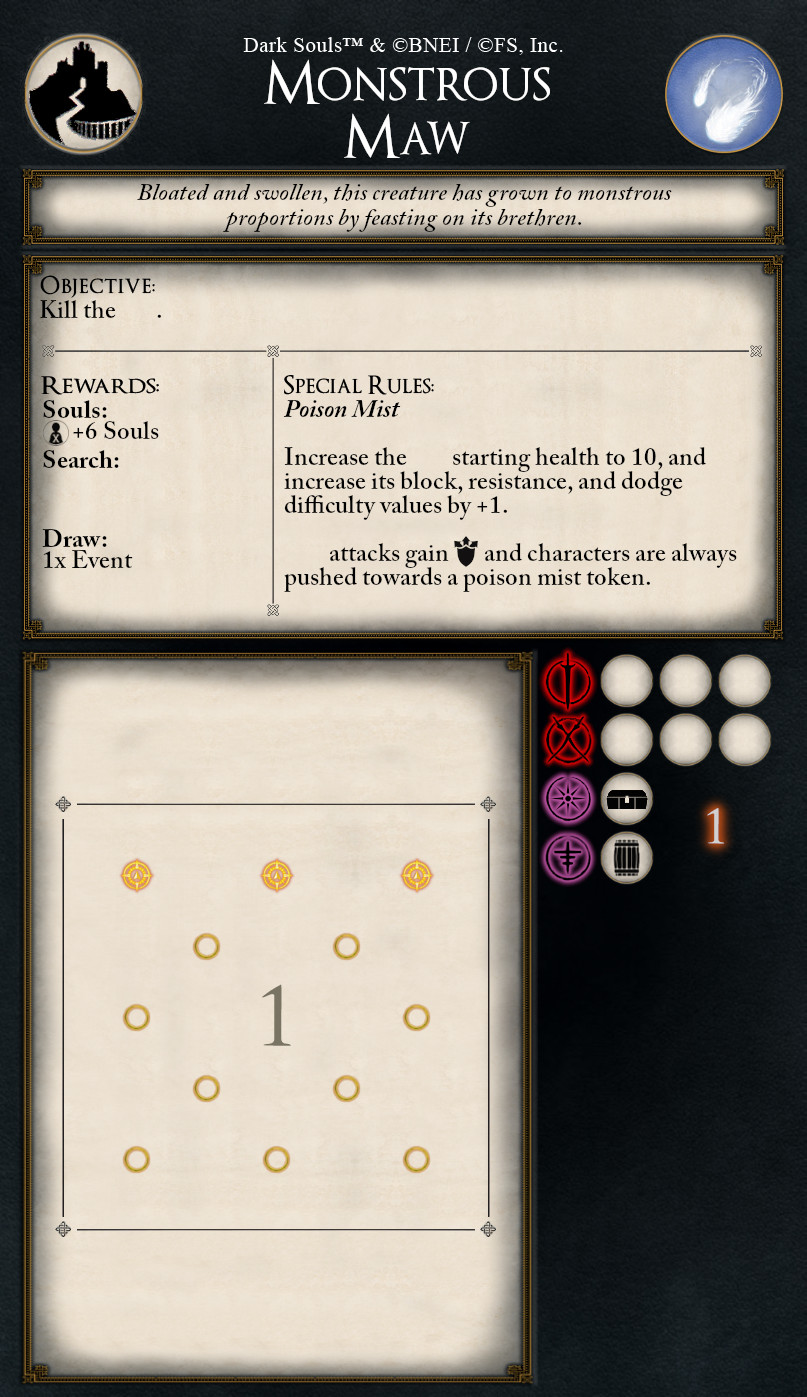
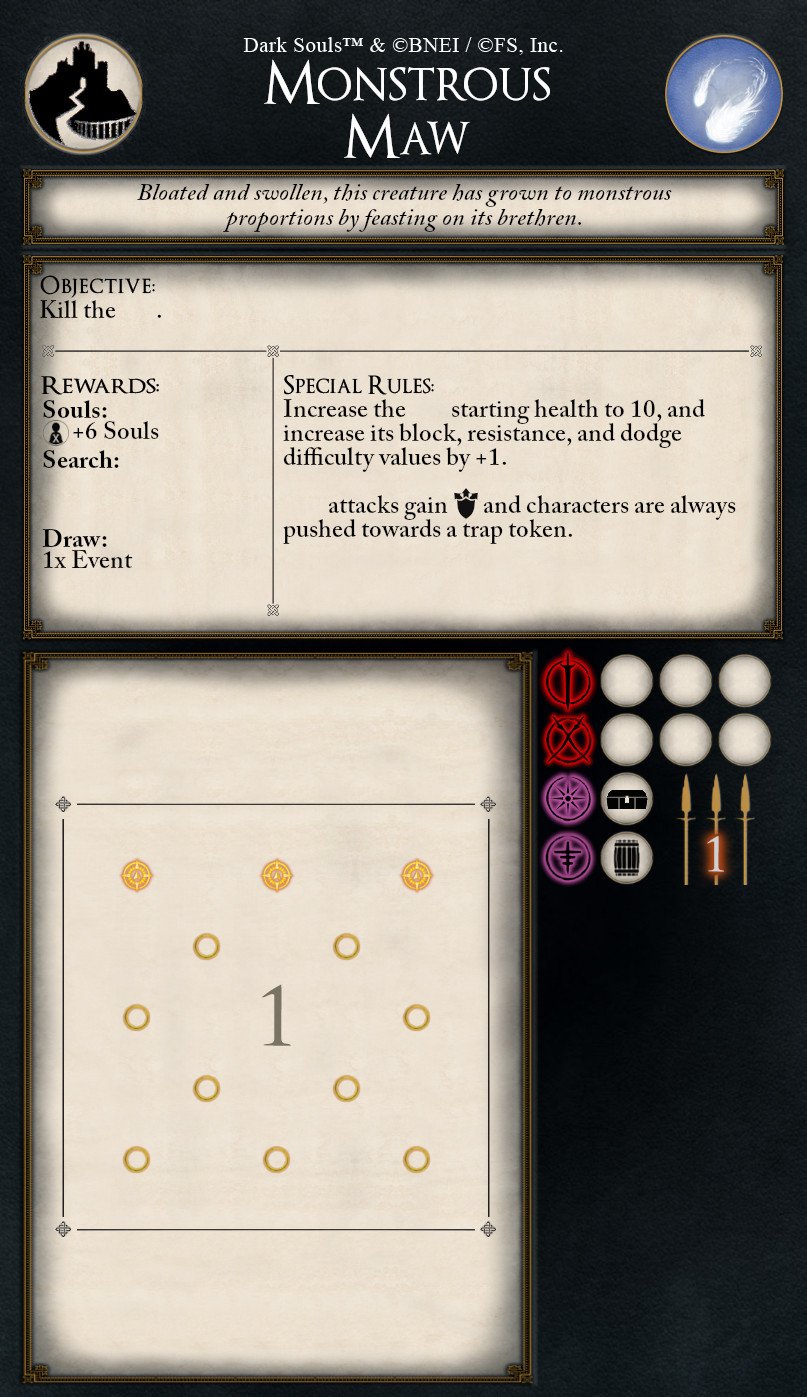
More edited encounter work.

Changed region(s): [[0.3408, 0.277, 0.8984, 0.4309], [0.8364, 0.554, 0.9294, 0.6464]]

diff --git a/ui/encounter_mode/logic.py b/ui/encounter_mode/logic.py
@@ -42,7 +42,58 @@ INVADER_LIMIT_SETTING_KEYS = (
 ENCOUNTER_BEHAVIOR_MODIFIERS_EDITED = {
     "Painted World of Ariamis_1_No Safe Haven": [],
     "Painted World of Ariamis_1_The First Bastion": [],
-    "Painted World of Ariamis_2_Monstrous Maw": [],
+    "Painted World of Ariamis_2_Monstrous Maw": [
+        {
+            "id": "pw_monstrous_maw_health",
+            "source": "encounter",
+            "source_id": "Painted World of Ariamis_2_Monstrous Maw",
+            "target_alt_indices": [0],
+            "stat": "health",
+            "op": "set",
+            "value": 10,
+            "description": "Base health 10 from special rules.",
+        },
+        {
+            "id": "pw_monstrous_maw_block",
+            "source": "encounter",
+            "source_id": "Painted World of Ariamis_2_Monstrous Maw",
+            "target_alt_indices": [0],
+            "stat": "armor",
+            "op": "add",
+            "value": 1,
+            "description": "+1 block from special rules.",
+        },
+        {
+            "id": "pw_monstrous_maw_resist",
+            "source": "encounter",
+            "source_id": "Painted World of Ariamis_2_Monstrous Maw",
+            "target_alt_indices": [0],
+            "stat": "resist",
+            "op": "add",
+            "value": 1,
+            "description": "+1 resist from special rules.",
+        },
+        {
+            "id": "pw_monstrous_maw_dodge",
+            "source": "encounter",
+            "source_id": "Painted World of Ariamis_2_Monstrous Maw",
+            "target_alt_indices": [0],
+            "stat": "dodge_difficulty",
+            "op": "add",
+            "value": 1,
+            "description": "+1 dodge difficulty from special rules.",
+        },
+        {
+            "id": "pw_frozen_sentries_push",
+            "source": "encounter",
+            "source_id": "Painted World of Ariamis_1_Frozen Sentries",
+            "target_alt_indices": [0],
+            "stat": "push",
+            "op": "flag",
+            "value": True,
+            "description": "Attacks gain push from special rules.",
+        }
+    ],
     "Painted World of Ariamis_3_Central Plaza": [],
     "Painted World of Ariamis_3_Deathly Freeze": [],
     "Painted World of Ariamis_3_Eye of the Storm": [],

diff --git a/ui/encounter_mode/play_panels.py b/ui/encounter_mode/play_panels.py
@@ -1776,6 +1776,23 @@ def _apply_behavior_mods_to_raw(
             patched[stat] = old + val
             continue
 
+        if op == "set":
+            # Overwrite the stat with the provided value.
+            patched[stat] = val
+            continue
+
+        if op == "mul" and isinstance(val, (int, float)):
+            old = patched.get(stat)
+            try:
+                if isinstance(old, (int, float)):
+                    patched[stat] = old * val
+                else:
+                    # If old value missing or non-numeric, set to val (treat as multiplier of 1)
+                    patched[stat] = val
+            except Exception:
+                patched[stat] = val
+            continue
+
     return patched
 
 
@@ -1907,13 +1924,19 @@ def _render_enemy_behaviors(encounter: dict, *, columns: int = 2) -> None:
     for i, entry in enumerate(entries):
         target_col = cols[i % ncols]
         with target_col:
-            cfg = load_behavior(entry.path)
-            enemy_name = cfg.name
+            # Load base behavior JSON without NG+ so we can apply encounter
+            # modifiers first, then re-run NG+ on the modified raw.
+            base_cfg = load_behavior(entry.path, apply_ngplus=False)
+            enemy_name = base_cfg.name
             all_enemy_names.append(enemy_name)
 
             mod_tuples = _gather_behavior_mods_for_enemy(encounter, enemy_name)
             mod_dicts = [m for (m, _, _) in mod_tuples]
-            raw_for_render = _apply_behavior_mods_to_raw(cfg.raw, mod_dicts)
+            modified_raw = _apply_behavior_mods_to_raw(base_cfg.raw, mod_dicts)
+
+            # Rebuild a NG+-adjusted BehaviorConfig from the modified raw
+            cfg = load_behavior(entry.path, raw_override=modified_raw, apply_ngplus=True)
+            raw_for_render = cfg.raw
 
             # Special-case: for The Fountainhead, mark behavior JSON so
             # behavior-card renderer can add the extra icon to enemy cards.

diff --git a/ui/encounter_mode/setup_tab.py b/ui/encounter_mode/setup_tab.py
@@ -247,7 +247,16 @@ def render(settings: dict, valid_party: bool, character_count: int) -> None:
             ]
 
             default_label = st.session_state.get("last_encounter", {}).get("label")
-            default_index = display_names.index(default_label) if default_label else 0
+            default_index = 0
+            if default_label:
+                if default_label in display_names:
+                    default_index = display_names.index(default_label)
+                else:
+                    base = default_label.split(" (level")[0]
+                    default_index = next(
+                        (i for i, d in enumerate(display_names) if d.startswith(base)),
+                        0,
+                    )
 
             selected_label = st.selectbox(
                 "Encounter",
@@ -724,7 +733,16 @@ def render(settings: dict, valid_party: bool, character_count: int) -> None:
         ]
 
         default_label = st.session_state.get("last_encounter", {}).get("label")
-        default_index = display_names.index(default_label) if default_label else 0
+        default_index = 0
+        if default_label:
+            if default_label in display_names:
+                default_index = display_names.index(default_label)
+            else:
+                base = default_label.split(" (level")[0]
+                default_index = next(
+                    (i for i, d in enumerate(display_names) if d.startswith(base)),
+                    0,
+                )
 
         selected_label = st.selectbox(
             "Encounter",

diff --git a/ui/encounter_mode/generation.py b/ui/encounter_mode/generation.py
@@ -197,7 +197,7 @@ SPECIAL_RULE_ENEMY_ICON_SLOTS: Dict[Tuple[str, str], List[SpecialRuleEnemyIcon]]
         SpecialRuleEnemyIcon(enemy_index=12, x=408, y=577, size=28),
     ],
     ("Monstrous Maw", "Painted World of Ariamis"): [
-        SpecialRuleEnemyIcon(enemy_index=0, x=124, y=293, size=28),
+        SpecialRuleEnemyIcon(enemy_index=0, x=125, y=295, size=28),
         SpecialRuleEnemyIcon(enemy_index=0, x=420, y=394, size=28),
     ],
     ("No Safe Haven", "Painted World of Ariamis"): [
@@ -288,6 +288,17 @@ EDITED_SPECIAL_RULE_ENEMY_ICON_SLOTS: Dict[Tuple[str, str], List[SpecialRuleEnem
         SpecialRuleEnemyIcon(enemy_index=6, x=161, y=295),
         SpecialRuleEnemyIcon(enemy_index=6, x=462, y=447),
         SpecialRuleEnemyIcon(enemy_index=6, x=336, y=543),
+    ],
+    ("The First Bastion", "Painted World of Ariamis"): [
+        SpecialRuleEnemyIcon(enemy_index=1, x=480, y=430),
+        SpecialRuleEnemyIcon(enemy_index=2, x=480, y=463),
+        SpecialRuleEnemyIcon(enemy_index=3, x=420, y=400),
+        SpecialRuleEnemyIcon(enemy_index=3, x=480, y=495),
+    ],
+    ("Monstrous Maw", "Painted World of Ariamis"): [
+        SpecialRuleEnemyIcon(enemy_index=0, x=125, y=295, size=28),
+        SpecialRuleEnemyIcon(enemy_index=0, x=416, y=394, size=28),
+        SpecialRuleEnemyIcon(enemy_index=0, x=285, y=494, size=28),
     ],
 }
 

diff --git a/core/behavior/logic.py b/core/behavior/logic.py
@@ -424,18 +424,24 @@ def _read_behavior_json(path_str: str) -> dict:
     with open(path_str, "r", encoding="utf-8") as f:
         return json.load(f)
     
-def load_behavior(fname: Path) -> BehaviorConfig:
-    # 1) Load base raw config from JSON
-    base_raw = deepcopy(_read_behavior_json(str(fname)))  # copy so we can mutate safely
+def load_behavior(fname: Path, raw_override: dict | None = None, apply_ngplus: bool = True) -> BehaviorConfig:
+    # 1) Load base raw config from JSON or use an explicit override
+    if raw_override is None:
+        base_raw = deepcopy(_read_behavior_json(str(fname)))  # copy so we can mutate safely
+    else:
+        base_raw = deepcopy(raw_override)
     name = fname.stem
 
-    # 2) Apply NG+ to raw before building entities / thresholds
+    # 2) Apply NG+ to raw (or skip if caller requested)
     level = get_current_ngplus_level()
-    raw = apply_ngplus_to_raw(
-        base_raw,
-        level,
-        enemy_name=name,
-    )
+    if apply_ngplus:
+        raw = apply_ngplus_to_raw(
+            base_raw,
+            level,
+            enemy_name=name,
+        )
+    else:
+        raw = deepcopy(base_raw)
 
     hp = int(raw.get("health", 1))
     heatup_threshold = raw.get("heatup", None) if isinstance(raw.get("heatup"), int) else None

diff --git a/core/encounter_rules.py b/core/encounter_rules.py
@@ -231,6 +231,13 @@ ENCOUNTER_RULES: EncounterRulesMap = {
             )
         ],
     },
+    "Monstrous Maw|Painted World of Ariamis": {
+        "edited": [
+            EncounterRule(
+                template="Characters are always pushed towards a trap token.",
+            )
+        ],
+    },
     "Skeletal Spokes|Painted World of Ariamis": {
         "default": [
             EncounterRule(
